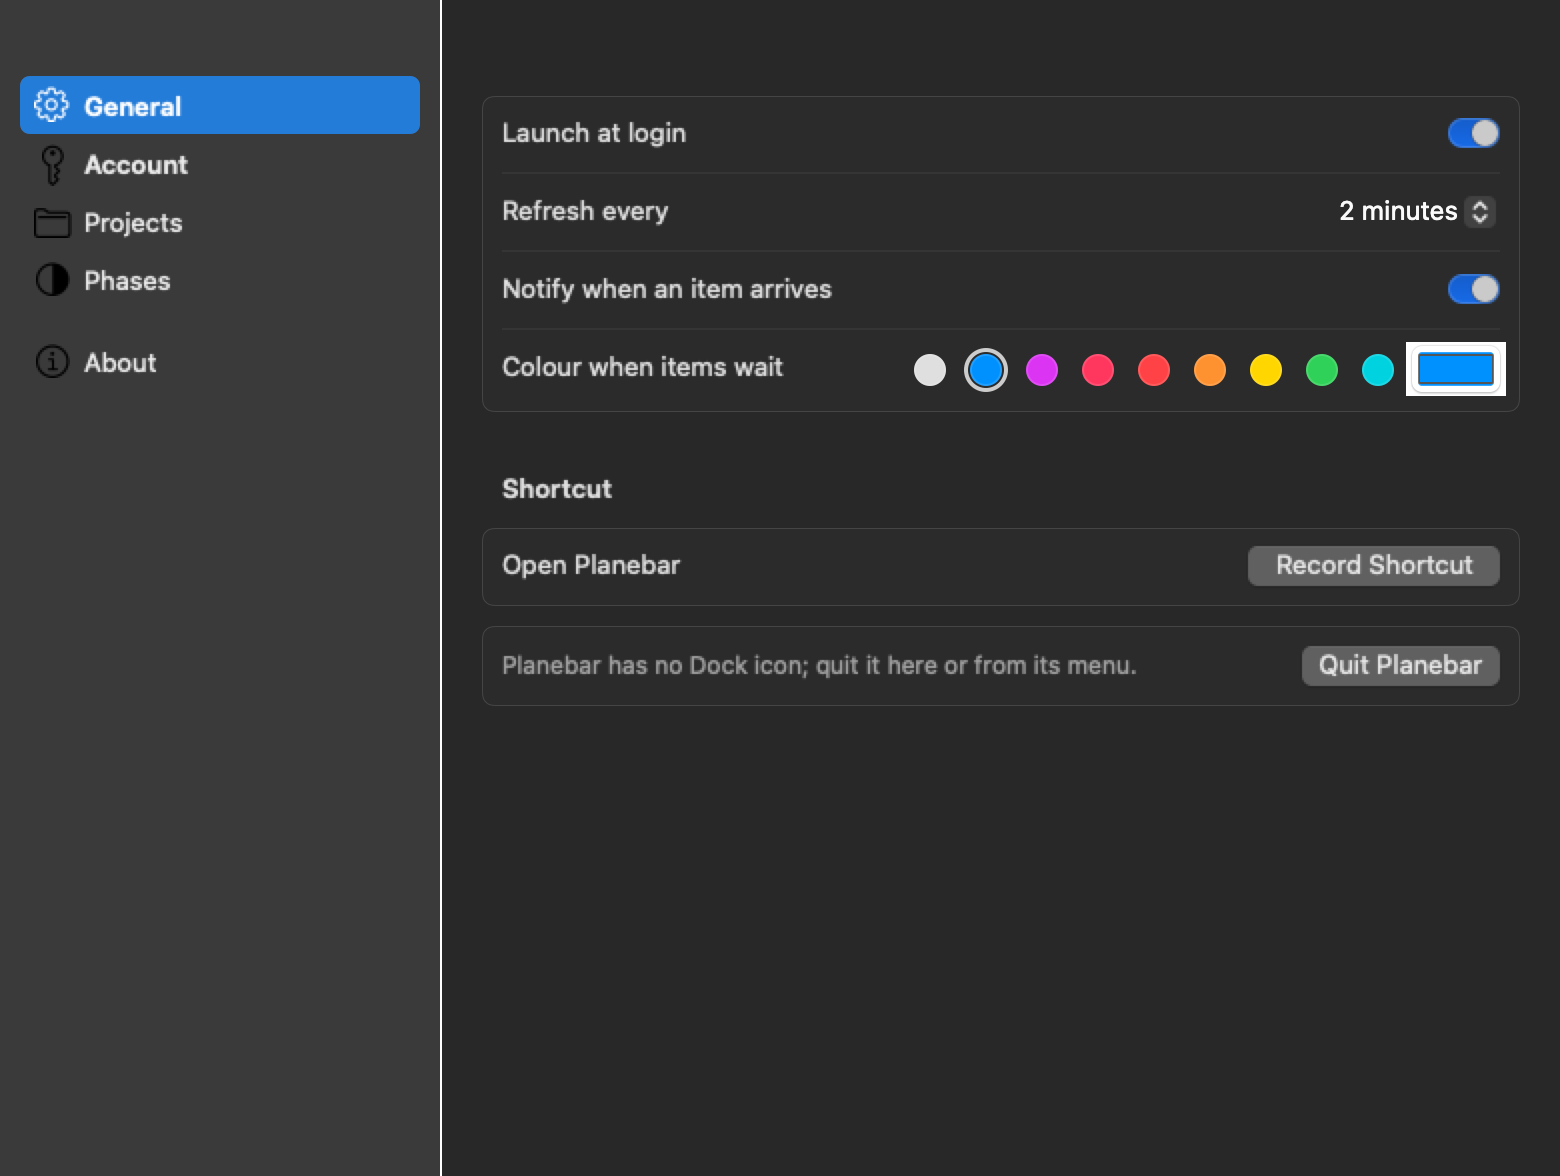
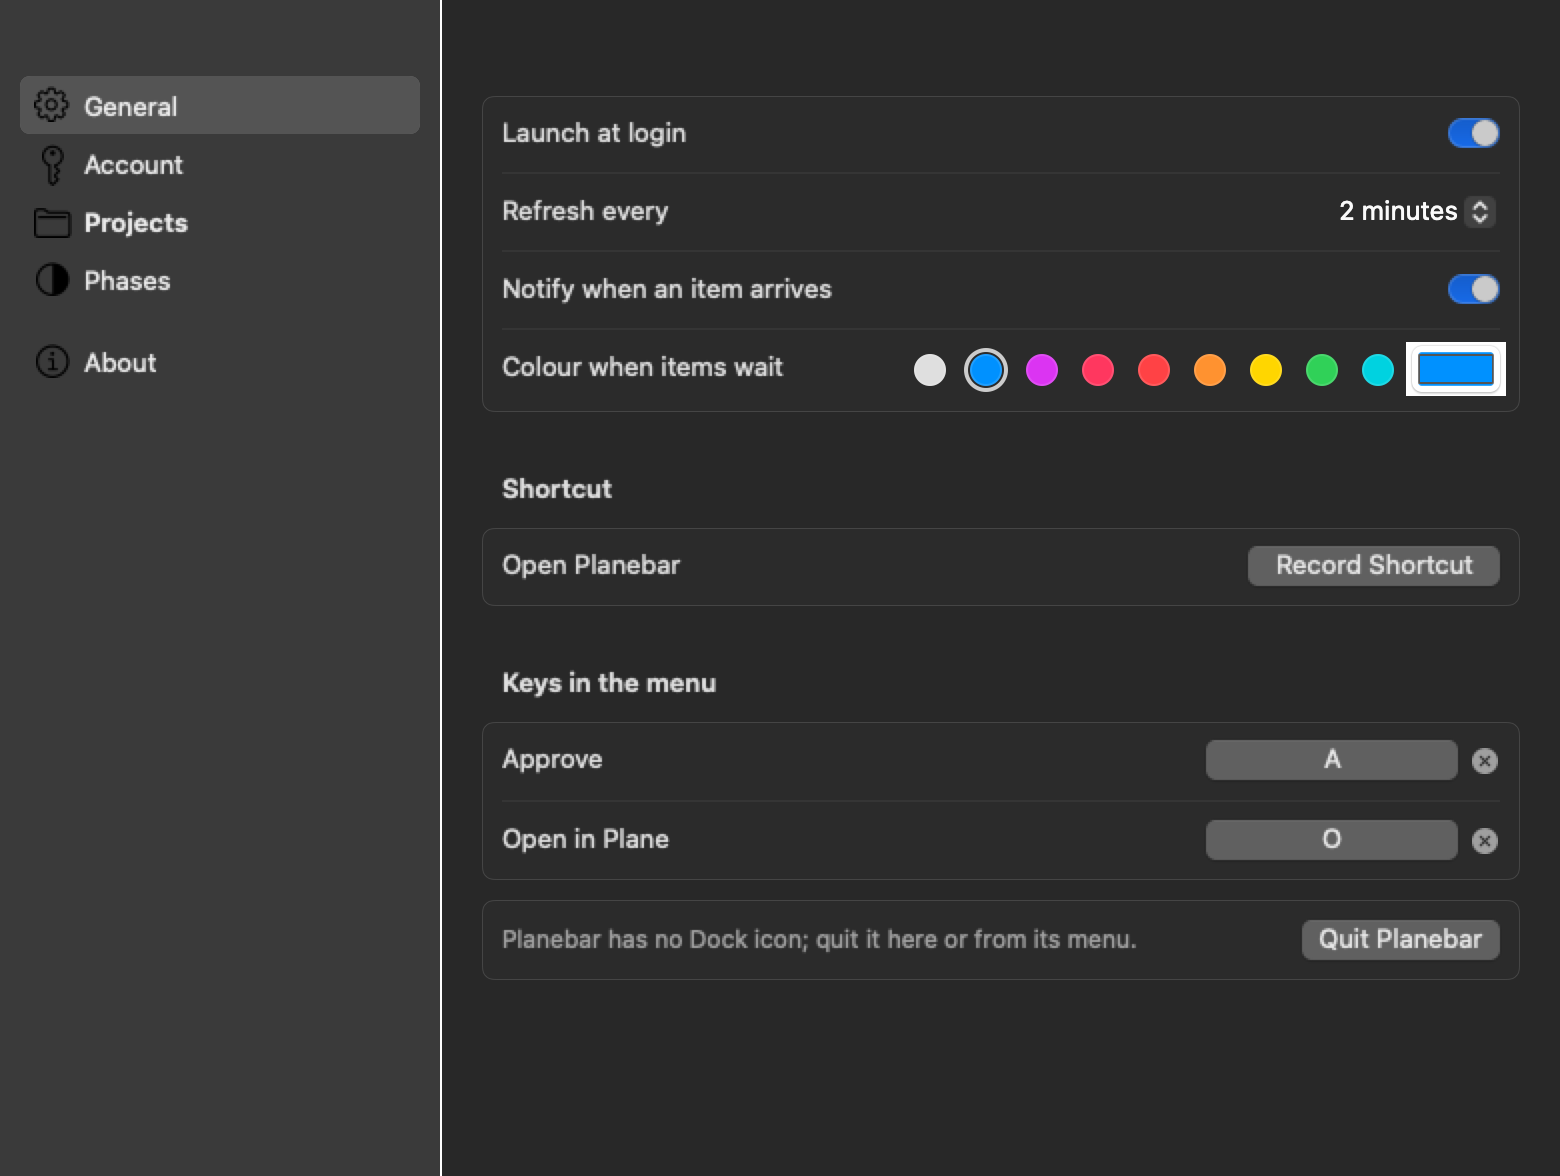
Planebar 0.1.2: the approve and open keys can be changed

diff --git a/Sources/Planebar/AppModel.swift b/Sources/Planebar/AppModel.swift
@@ -104,6 +104,14 @@ final class AppModel {
     var hotKey: KeyCombo? {
         didSet { save(hotKey.flatMap { try? JSONEncoder().encode($0) }, "hotKey") }
     }
+    /// The keys that approve the selected item and open it in Plane while the menu is open;
+    /// nil for none.
+    var approveKey: KeyCombo? {
+        didSet { saveKey(approveKey, "approveKey") }
+    }
+    var openKey: KeyCombo? {
+        didSet { saveKey(openKey, "openKey") }
+    }
 
     /// Set by the app delegate.
     @ObservationIgnored var openSettings: (SettingsPane) -> Void = { _ in }
@@ -147,6 +155,8 @@ final class AppModel {
         notifies = defaults.bool(forKey: "notifies")
         labelColour = defaults.string(forKey: "labelColour") ?? "blue"
         hotKey = defaults.data(forKey: "hotKey").flatMap { try? JSONDecoder().decode(KeyCombo.self, from: $0) }
+        approveKey = Self.loadKey(defaults, "approveKey", default: KeyCombo(keyCode: 0, key: "A"))
+        openKey = Self.loadKey(defaults, "openKey", default: KeyCombo(keyCode: 31, key: "O"))
 
         if DemoData.isOn {
             chosenPhases = ["In Progress", "Review"]
@@ -162,6 +172,30 @@ final class AppModel {
 
     private func save(_ value: Any?, _ key: String) {
         defaults.set(value, forKey: key)
+    }
+
+    /// Saves a menu key; a removed key is stored as empty data, so it is not replaced by the
+    /// default on the next launch.
+    private func saveKey(_ combo: KeyCombo?, _ key: String) {
+        defaults.set(combo.flatMap { try? JSONEncoder().encode($0) } ?? Data(), forKey: key)
+    }
+
+    private static func loadKey(_ defaults: UserDefaults, _ key: String, default fallback: KeyCombo) -> KeyCombo? {
+        guard let data = defaults.data(forKey: key) else { return fallback }
+        return try? JSONDecoder().decode(KeyCombo.self, from: data)
+    }
+
+    /// Why a key cannot be used for approving or opening, or nil when it can: the menu's
+    /// fixed keys, and the other action's key, are taken.
+    func refuseMenuKey(_ combo: KeyCombo, for action: String) -> String? {
+        let flags = NSEvent.ModifierFlags(rawValue: combo.modifiers)
+        let fixedPlain: Set<UInt32> = [123, 124, 125, 126, 36, 76, 49, 53]  // arrows, Return, Enter, Space, Esc
+        let fixedCommand: Set<UInt32> = [43, 6, 15, 12]                      // ⌘, ⌘Z ⌘R ⌘Q
+        if flags.isEmpty, fixedPlain.contains(combo.keyCode) { return "Used by the menu" }
+        if flags == .command, fixedCommand.contains(combo.keyCode) { return "Used by the menu" }
+        let other = action == "approve" ? openKey : approveKey
+        if other == combo { return action == "approve" ? "Used by Open in Plane" : "Used by Approve" }
+        return nil
     }
 
     // MARK: Key and workspace

diff --git a/Sources/Planebar/HotKey.swift b/Sources/Planebar/HotKey.swift
@@ -33,14 +33,26 @@ struct KeyCombo: Codable, Equatable {
         return UInt32(carbon)
     }
 
-    /// A combo from a key press, or nil when it has no Control, Option or Command
-    /// (Shift alone would take over ordinary typing).
-    init?(event: NSEvent) {
+    init(keyCode: UInt32, modifiers: NSEvent.ModifierFlags = [], key: String) {
+        self.keyCode = keyCode
+        self.modifiers = modifiers.rawValue
+        self.key = key
+    }
+
+    /// A combo from a key press. A system-wide shortcut needs Control, Option or Command
+    /// (Shift alone would take over ordinary typing), so without one this is nil unless
+    /// `allowsPlain` is set, as for keys used only inside the menu.
+    init?(event: NSEvent, allowsPlain: Bool = false) {
         let flags = event.modifierFlags.intersection(Self.allowed)
-        guard !flags.intersection([.control, .option, .command]).isEmpty else { return nil }
+        guard allowsPlain || !flags.intersection([.control, .option, .command]).isEmpty else { return nil }
         keyCode = UInt32(event.keyCode)
         modifiers = flags.rawValue
         key = Self.name(for: event)
+    }
+
+    /// Whether a key press is this combo, modifiers and all.
+    func matches(_ event: NSEvent) -> Bool {
+        UInt32(event.keyCode) == keyCode && event.modifierFlags.intersection(Self.allowed).rawValue == modifiers
     }
 
     private static let named: [Int: String] = [
@@ -115,6 +127,10 @@ final class HotKeyCenter {
 /// A button that records a shortcut: click it, then press the keys. Esc cancels.
 struct ShortcutRecorder: View {
     @Binding var combo: KeyCombo?
+    /// Accept keys without Control, Option or Command, for keys used only inside the menu.
+    var allowsPlain = false
+    /// Says why a key cannot be used, or nil when it can.
+    var refuse: (KeyCombo) -> String? = { _ in nil }
     @State private var isRecording = false
     @State private var monitor: Any?
     @State private var hint: String?
@@ -149,9 +165,13 @@ struct ShortcutRecorder: View {
         monitor = NSEvent.addLocalMonitorForEvents(matching: .keyDown) { event in
             if Int(event.keyCode) == kVK_Escape {
                 stop()
-            } else if let recorded = KeyCombo(event: event) {
-                combo = recorded
-                stop()
+            } else if let recorded = KeyCombo(event: event, allowsPlain: allowsPlain) {
+                if let reason = refuse(recorded) {
+                    hint = reason
+                } else {
+                    combo = recorded
+                    stop()
+                }
             } else {
                 hint = "Include ⌃, ⌥ or ⌘"
             }

diff --git a/Sources/Planebar/PlanebarApp.swift b/Sources/Planebar/PlanebarApp.swift
@@ -141,6 +141,16 @@ final class AppDelegate: NSObject, NSApplicationDelegate, NSWindowDelegate {
 
     private func handleKey(_ event: NSEvent) -> Bool {
         guard menu.isShown, event.window === menu.window else { return false }
+        if model.approveKey?.matches(event) == true {
+            model.navigate(.approve)
+            return true
+        }
+        if model.openKey?.matches(event) == true {
+            let opens = model.item(model.selectedRow) != nil
+            model.navigate(.open)
+            if opens { closeMenu() }
+            return true
+        }
         let modifiers = event.modifierFlags.intersection([.command, .control, .option, .shift])
         if modifiers == .command {
             switch event.keyCode {
@@ -160,11 +170,6 @@ final class AppDelegate: NSObject, NSApplicationDelegate, NSWindowDelegate {
         case 124: withAnimation(.easeOut(duration: 0.15)) { model.navigate(.right) }
         case 36, 76, 49:                       // Return, Enter, Space
             withAnimation(.easeOut(duration: 0.15)) { model.navigate(.activate) }
-        case 0: model.navigate(.approve)       // A
-        case 31:                               // O
-            let opens = model.item(model.selectedRow) != nil
-            model.navigate(.open)
-            if opens { closeMenu() }
         case 53: closeMenu()                   // Esc
         default: return false
         }

diff --git a/Sources/Planebar/MenuView.swift b/Sources/Planebar/MenuView.swift
@@ -233,7 +233,8 @@ private struct ItemRow: View {
                     .buttonStyle(.plain)
                     .foregroundStyle(next == nil ? Color.secondary.opacity(0.4) : Color.secondary)
                     .disabled(next == nil)
-                    .help(next.map { "Approve: move to \($0.name) (A)" } ?? "Nothing comes after \(item.state.name)")
+                    .help(next.map { "Approve: move to \($0.name)" + (model.approveKey.map { " (\($0.display))" } ?? "") }
+                          ?? "Nothing comes after \(item.state.name)")
                     .accessibilityLabel("Approve")
                     Button {
                         model.openInPlane(item)
@@ -245,7 +246,7 @@ private struct ItemRow: View {
                     }
                     .buttonStyle(.plain)
                     .foregroundStyle(Color.secondary)
-                    .help("Open in Plane (O)")
+                    .help("Open in Plane" + (model.openKey.map { " (\($0.display))" } ?? ""))
                     .accessibilityLabel("Open in Plane")
                 }
                 Text(Age.short(since: item.updatedAt))

diff --git a/Sources/Planebar/SettingsView.swift b/Sources/Planebar/SettingsView.swift
@@ -295,6 +295,21 @@ private struct GeneralPage: View {
             }
 
             Section {
+                LabeledContent("Approve") {
+                    ShortcutRecorder(combo: $model.approveKey, allowsPlain: true) {
+                        model.refuseMenuKey($0, for: "approve")
+                    }
+                }
+                LabeledContent("Open in Plane") {
+                    ShortcutRecorder(combo: $model.openKey, allowsPlain: true) {
+                        model.refuseMenuKey($0, for: "open")
+                    }
+                }
+            } header: {
+                Text("Keys in the menu")
+            }
+
+            Section {
                 HStack {
                     Text("Planebar has no Dock icon; quit it here or from its menu.")
                         .font(.callout)

diff --git a/README.md b/README.md
@@ -20,7 +20,7 @@ lists the items without opening the website, and moves each one on when you appr
   <img src="docs/screenshots/label.png" width="54" alt="The menu bar label: three columns of cards with a tick, and a count">
 </p>
 
-Version 0.1.1. A personal tool, not affiliated with or endorsed by Plane.
+Version 0.1.2. A personal tool, not affiliated with or endorsed by Plane.
 
 ## What it does
 
@@ -100,9 +100,9 @@ With the menu open:
 | ↑ ↓ | Move between items |
 | Return or Space | Show or hide the selected item's details |
 | → / ← | Show / hide details |
-| A | Approve the selected item |
+| A | Approve the selected item (change it under Settings → General) |
 | ⌘Z | Undo the approval |
-| O | Open the selected item in Plane |
+| O | Open the selected item in Plane (change it under Settings → General) |
 | ⌘R | Refresh |
 | ⌘, | Settings |
 | ⌘Q | Quit |

diff --git a/CHANGELOG.md b/CHANGELOG.md
@@ -2,6 +2,11 @@
 
 ## Unreleased
 
+## 0.1.2
+
+- The keys that approve an item and open it in Plane, A and O to begin with, can be
+  changed or removed in Settings → General.
+
 ## 0.1.1
 
 - While items wait, the menu bar icon and count take a colour, blue to begin with. Choose
